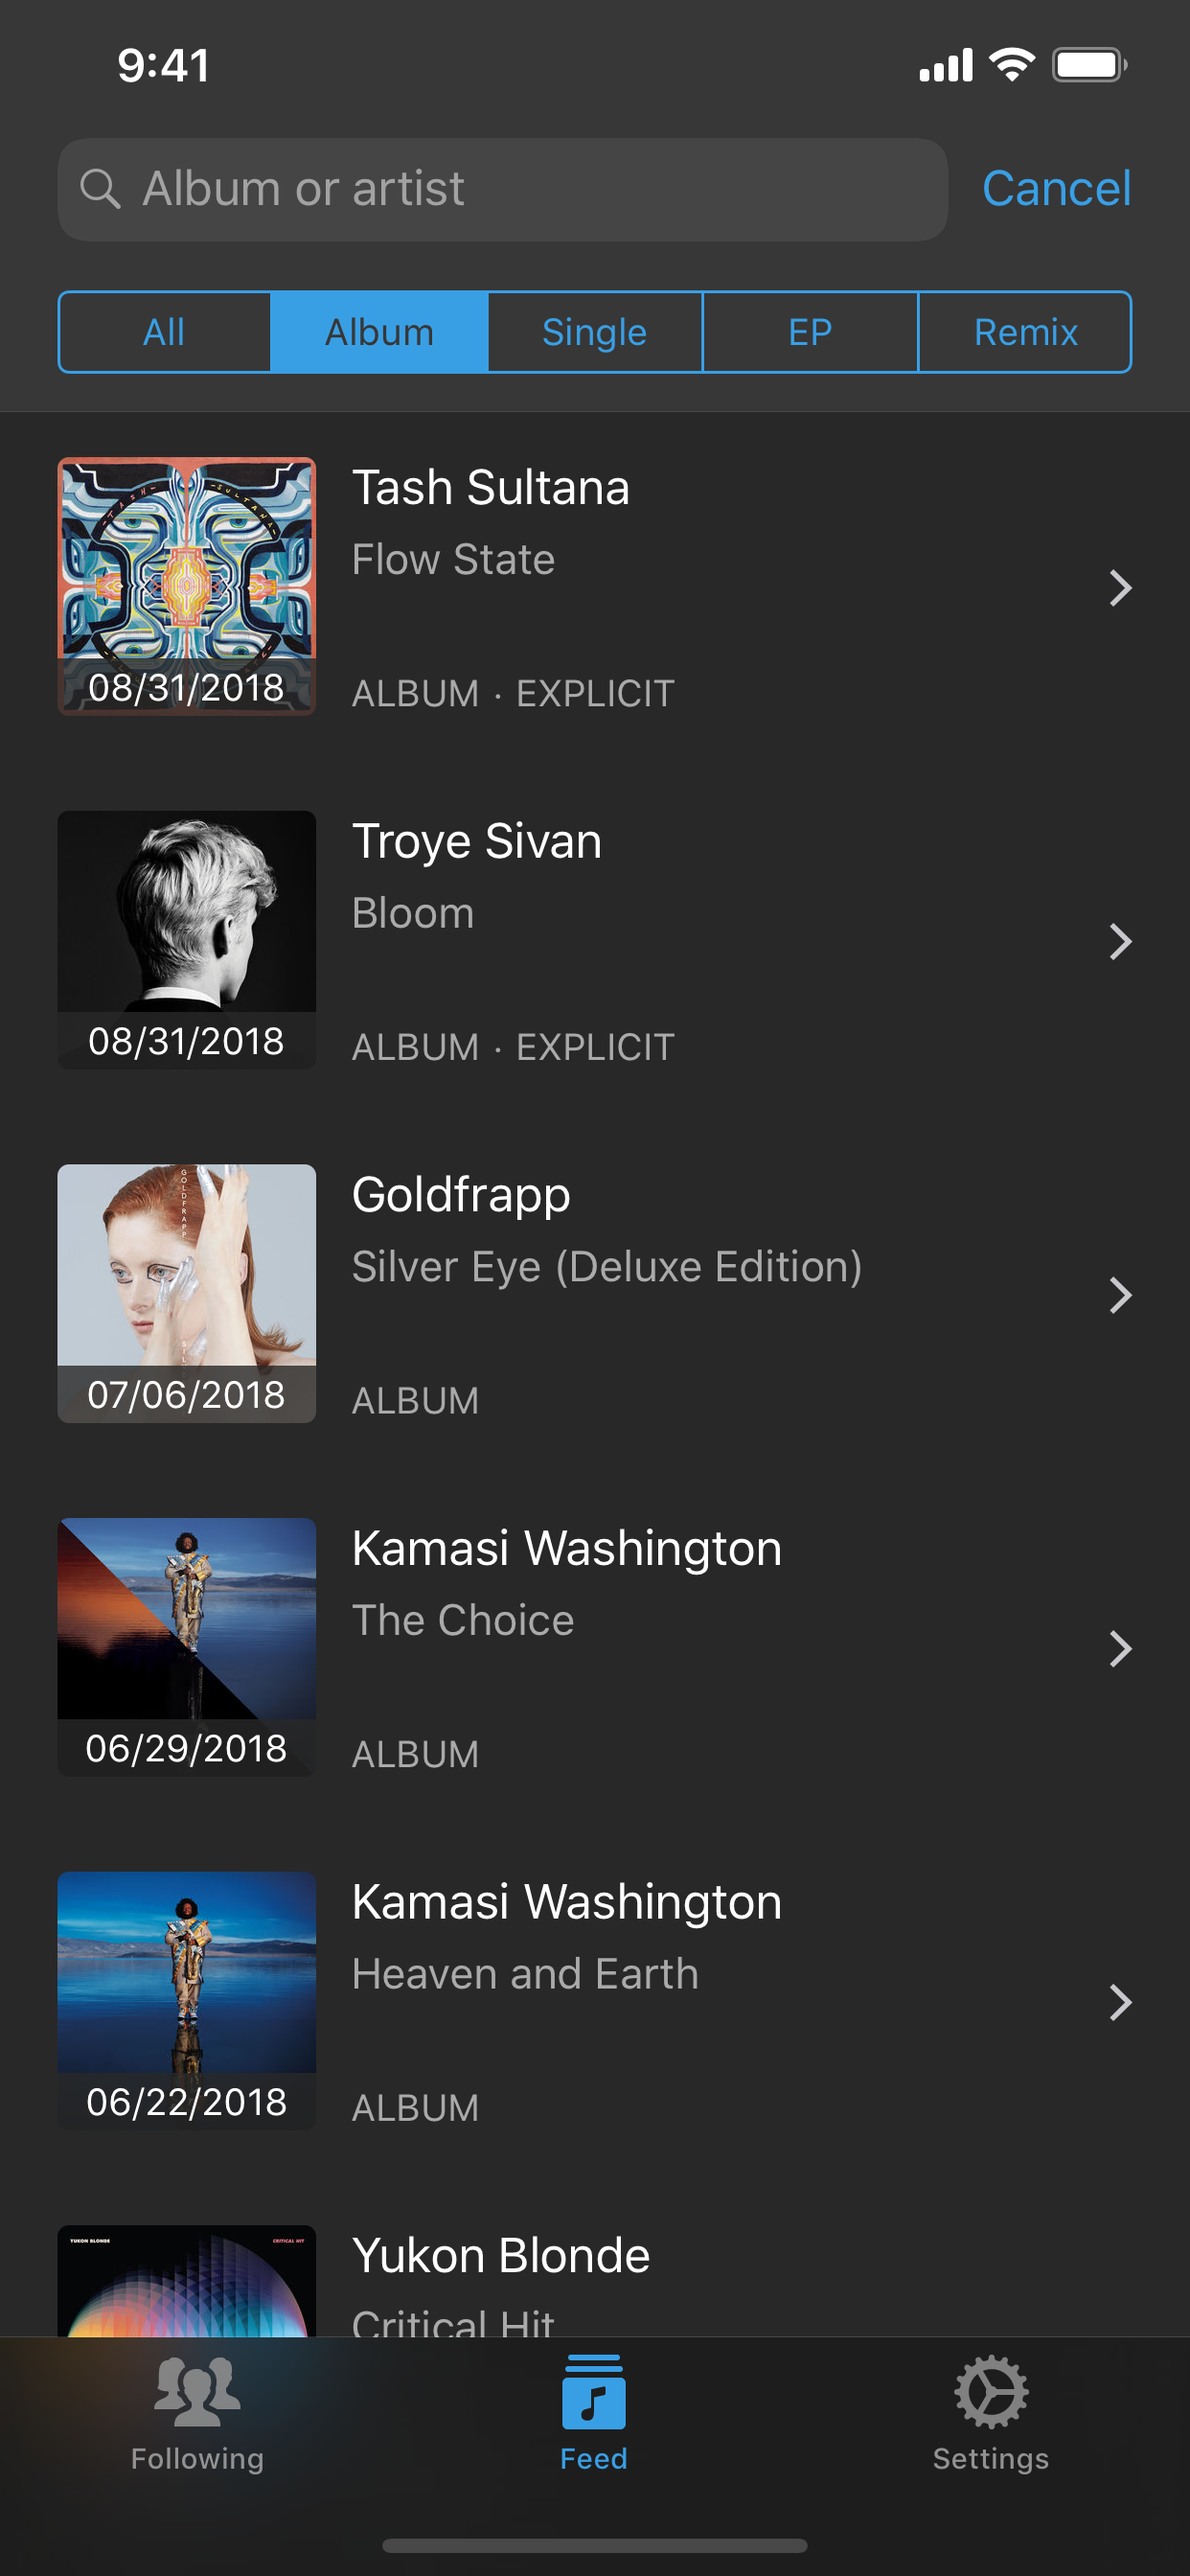
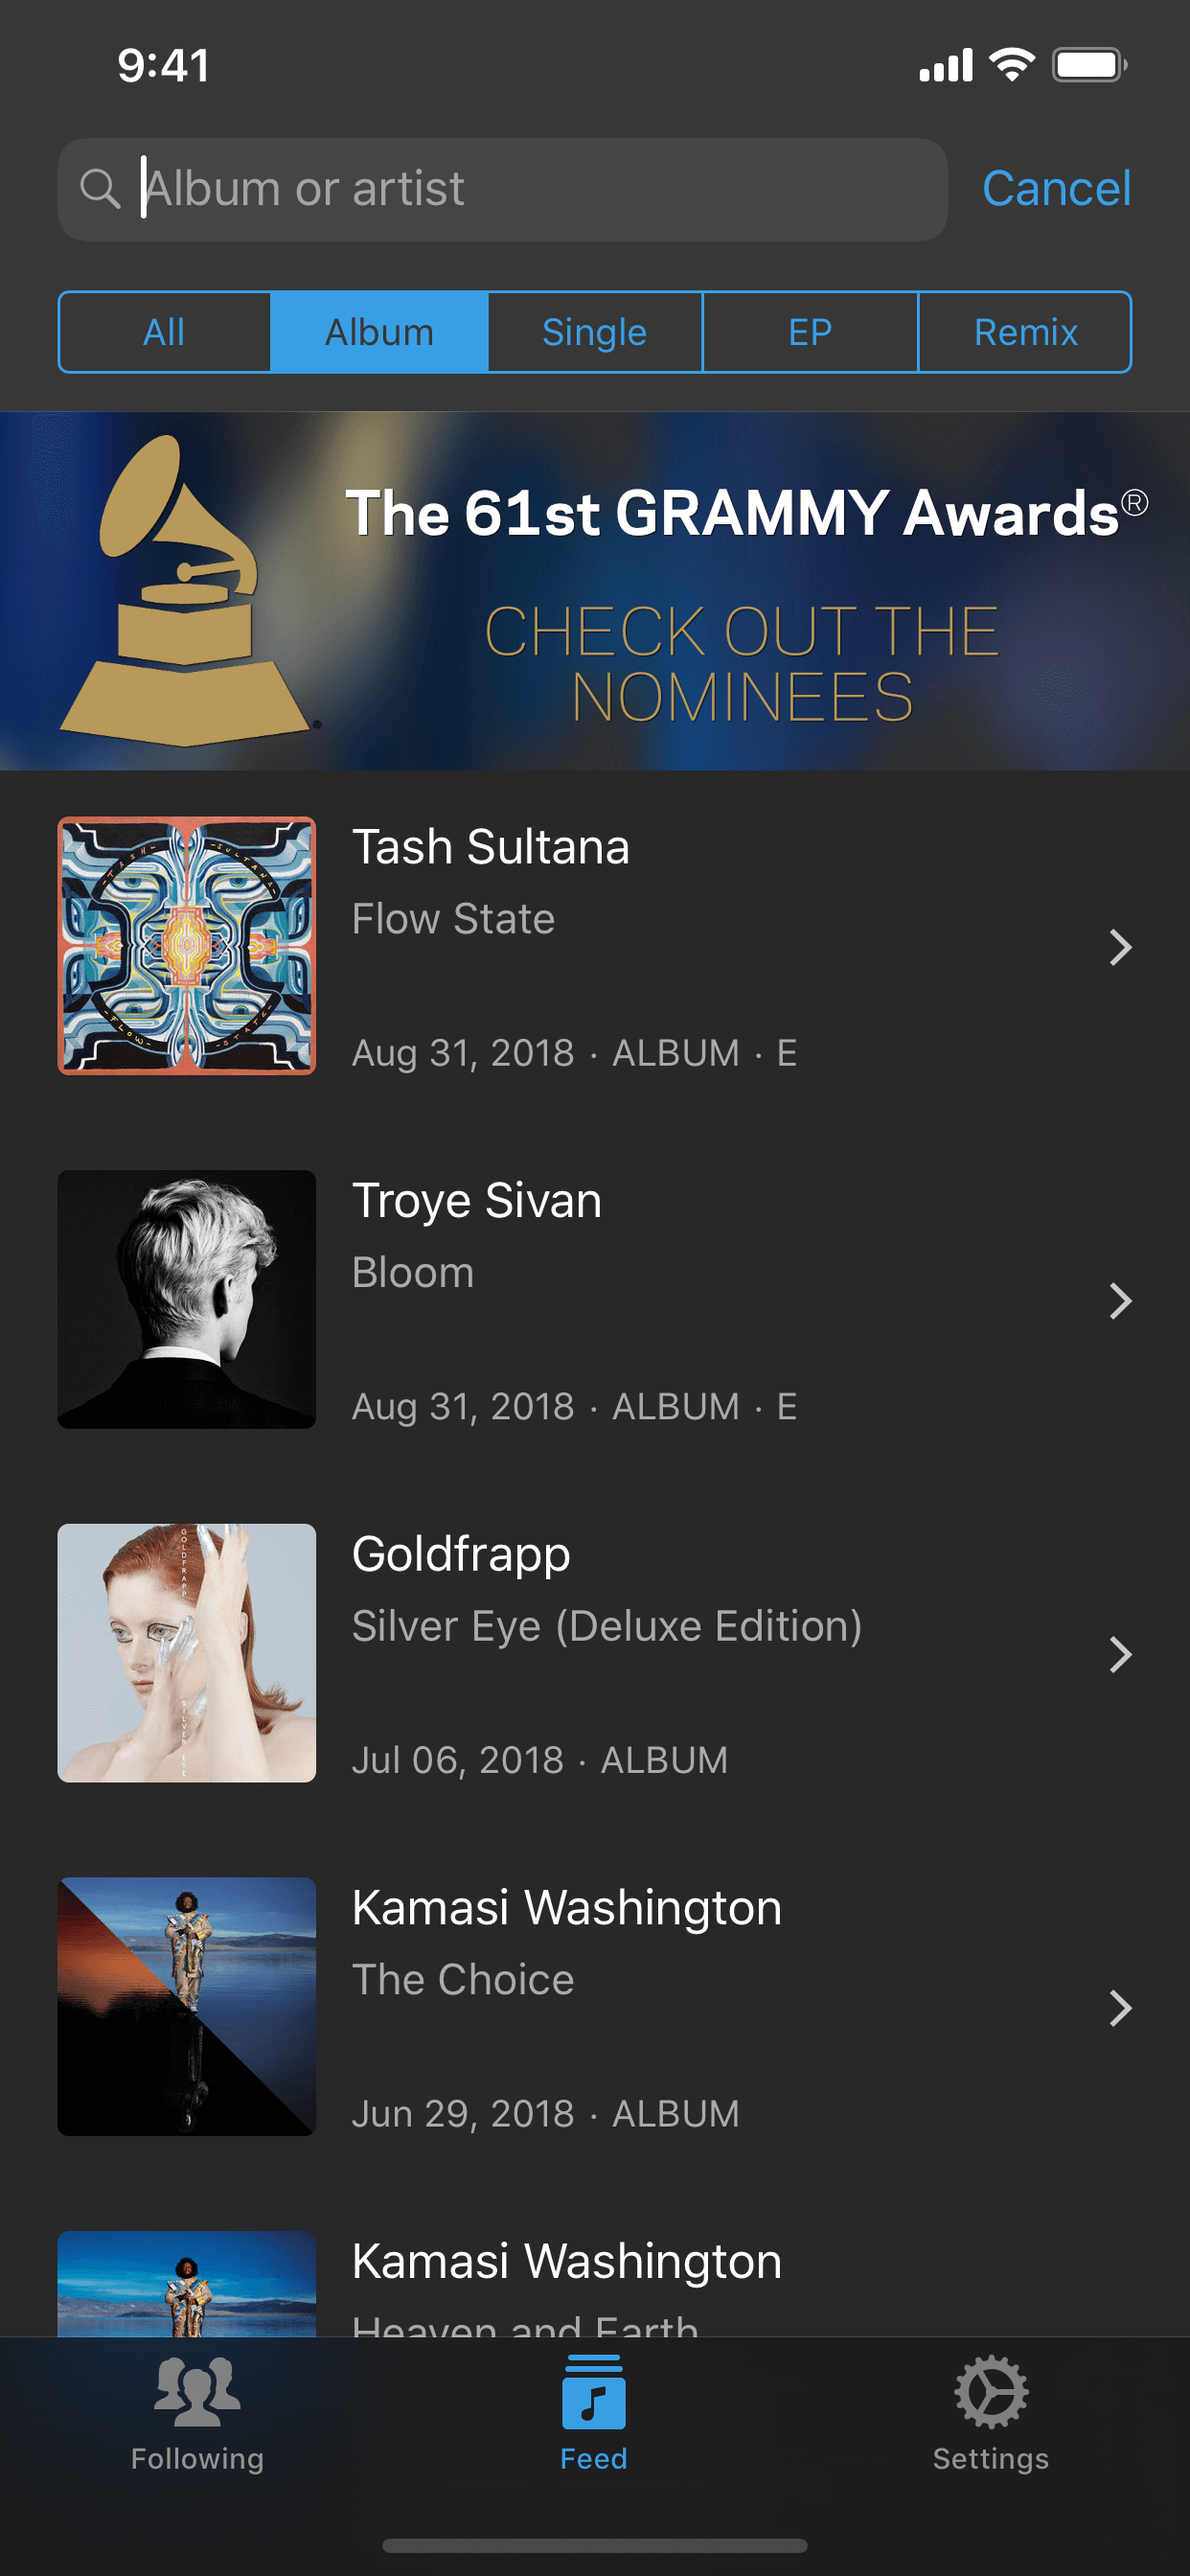
Update MusicHarbor press kit

diff --git a/press-kit/music-harbor/index.html b/press-kit/music-harbor/index.html
@@ -35,11 +35,17 @@
             <div class="columns">
                 <div class="column is-offset-2 is-8">
                     <div class="content">
-                        <p>From someone who always missed the release of new music and relied on lists of top 100 songs to know what's new, comes a simple and powerful solution called MusicHabor.</p>
+                        <p>MusicHarbor was created to help people who want to keep up with the latest releases from artists they love. It's integrated with Apple Music so you can import artists from your library.</p>
 
-                        <p>The idea is simple: the app monitore artists you like, and then notify you when they release something new. It also provides a feed of albums releases, chronologically ordered, so you can have a list of new releases <em>really</em> taylored to what you follow.</p>
+                        <blockquote cite="http://9to5mac.com/2018/11/21/follow-apple-music-artists"><em>It does what you need it to do extremely well</em><br>– 9to5Mac</blockquote>
 
-                        <p>So in June 2018 I began to work on the app. And now it is finally ready to ship! There are many more things to do, but I can ship these as updates to the app, while it is used by many people, to benefit their music discoverability!</p>
+                        <blockquote><em>This should be a tab in the Music app</em><br>– ★ ★ ★ ★ ★ User App Store review</blockquote>
+
+                        <blockquote><em>THANK YOU for creating this masterpiece</em><br>– ★ ★ ★ ★ ★ User App Store review</blockquote>
+
+                        <p>The idea is simple: the app monitore artists you like and notify you when they release something new. It also provides a feed of albums releases, chronologically ordered, so you can have a list of new releases <em>really</em> tailored to what you follow.</p>
+
+                        <p>So in June 2018 I began to work on the app, and the first version was released in November. And I'm constantly updating it to add requested features and improve stability and performance.</p>
 
                         <p>Enough talking, let's go to the marketing assets!</p>
                     
@@ -50,6 +56,7 @@
                             <li>Import artists you have on your Apple Music library</li>
                             <li>Receive notification when a new abum is released</li>
                             <li>Filter releases by album, single, EP and remix</li>
+                            <li>New: check out the 61st GRAMMY&copy; Awards nominees</li>
                         </ul>
 
                         <h2>Icon</h2>
@@ -57,13 +64,13 @@
                         <p>Here we have the normal version and the rounded corners App Store version:</p>
 
                         <div class="columns">
-                            <div class="column is-6">
+                            <div class="column is-3">
                                 <figure class="image">
                                     <img src="icon-full.png">
                                     <a href="icon-full.png" download>Download</a>
                                 </figure>
                             </div>
-                            <div class="column is-6">
+                            <div class="column is-3">
                                 <figure class="image">
                                     <img src="icon-app-store.png">
                                     <a href="icon-app-store.png" download>Download</a>
@@ -75,29 +82,38 @@
 
                         <p>These are screenshots with the iPhone XS Max proportion</p>
 
-                        <div class="columns">
-                            <div class="column is-3">
+                        <div class="columns is-centered">
+                            <div class="column is-4">
                                 <figure class="image">
                                     <img src="screenshot-1.png">
                                     <a href="screenshot-1.png" download>Download</a>
                                 </figure>
                             </div>
-                            <div class="column is-3">
+                            <div class="column is-4">
                                 <figure class="image">
                                     <img src="screenshot-2.png">
                                     <a href="screenshot-2.png" download>Download</a>
                                 </figure>
                             </div>
-                            <div class="column is-3">
+                            <div class="column is-4">
                                 <figure class="image">
                                     <img src="screenshot-3.png">
                                     <a href="screenshot-3.png" download>Download</a>
                                 </figure>
                             </div>
-                            <div class="column is-3">
+                        </div>
+
+                        <div class="columns is-centered">
+                            <div class="column is-4">
                                 <figure class="image">
                                     <img src="screenshot-4.png">
                                     <a href="screenshot-4.png" download>Download</a>
+                                </figure>
+                            </div>
+                            <div class="column is-4">
+                                <figure class="image">
+                                    <img src="screenshot-5.png">
+                                    <a href="screenshot-5.png" download>Download</a>
                                 </figure>
                             </div>
                         </div>
@@ -119,8 +135,8 @@
                         <div class="columns">
                             <div class="column is-4">
                                 <figure class="image">
-                                    <img src="mockup-3.jpg">
-                                    <a href="mockup-3.jpg" download>Download</a>
+                                    <img src="mockup-1.jpg">
+                                    <a href="mockup-1.jpg" download>Download</a>
                                 </figure>
                             </div>
                             <div class="column is-4">
@@ -131,8 +147,8 @@
                             </div>
                             <div class="column is-4">
                                 <figure class="image">
-                                    <img src="mockup-1.jpg">
-                                    <a href="mockup-1.jpg" download>Download</a>
+                                    <img src="mockup-3.jpg">
+                                    <a href="mockup-3.jpg" download>Download</a>
                                 </figure>
                             </div>
                         </div>
